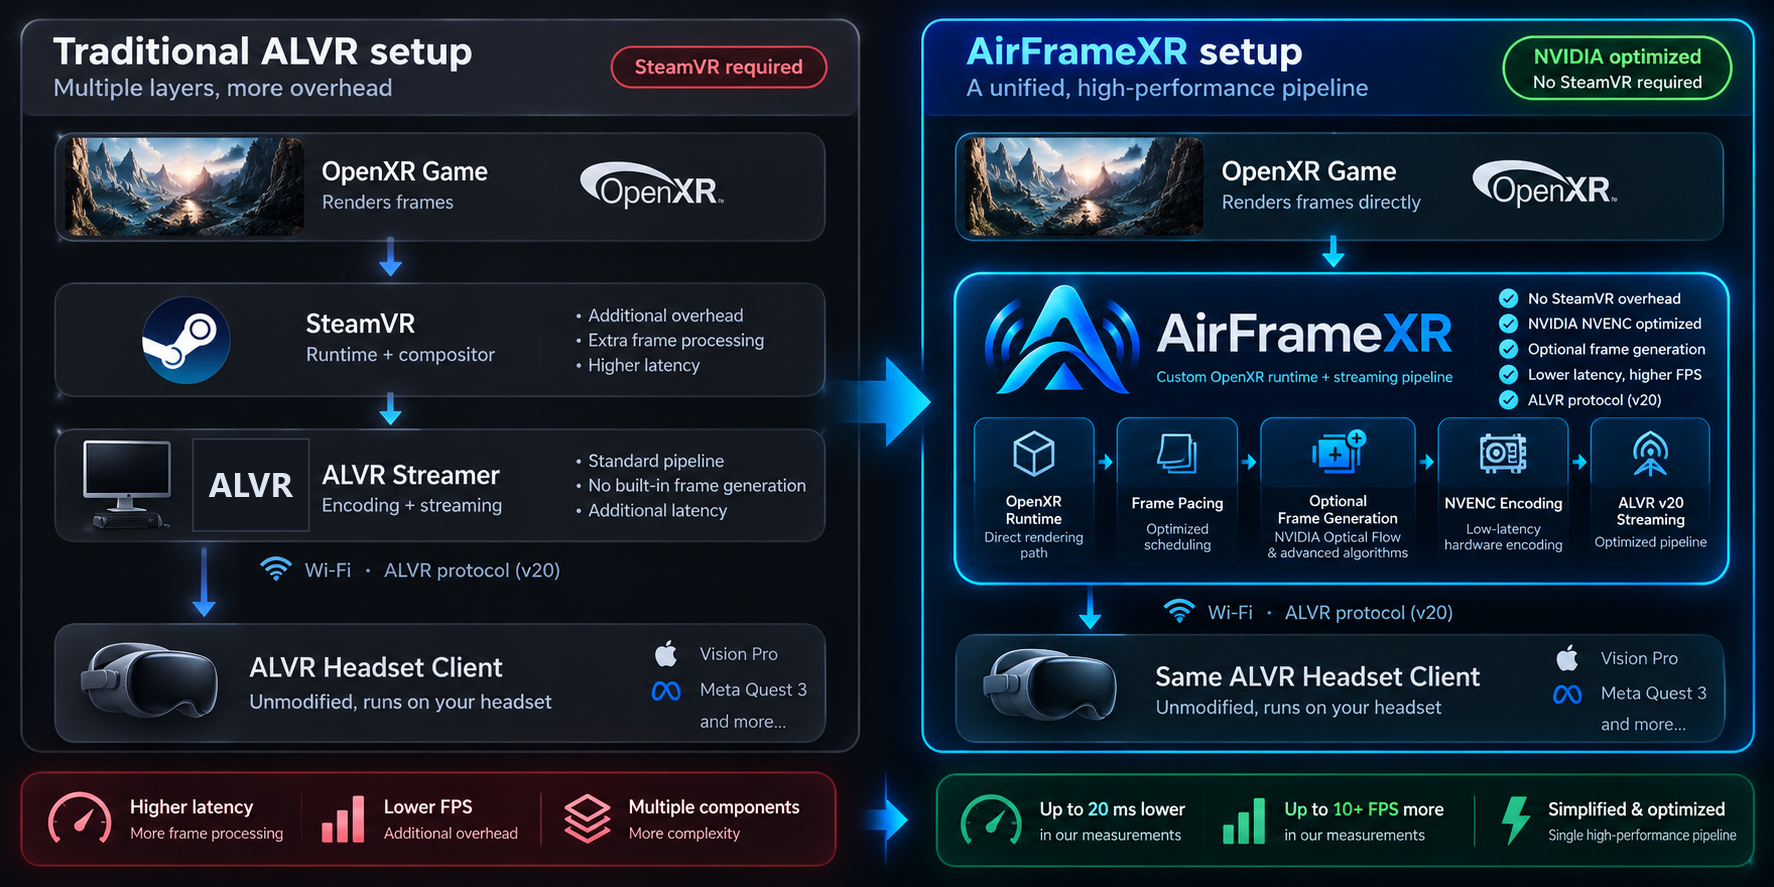
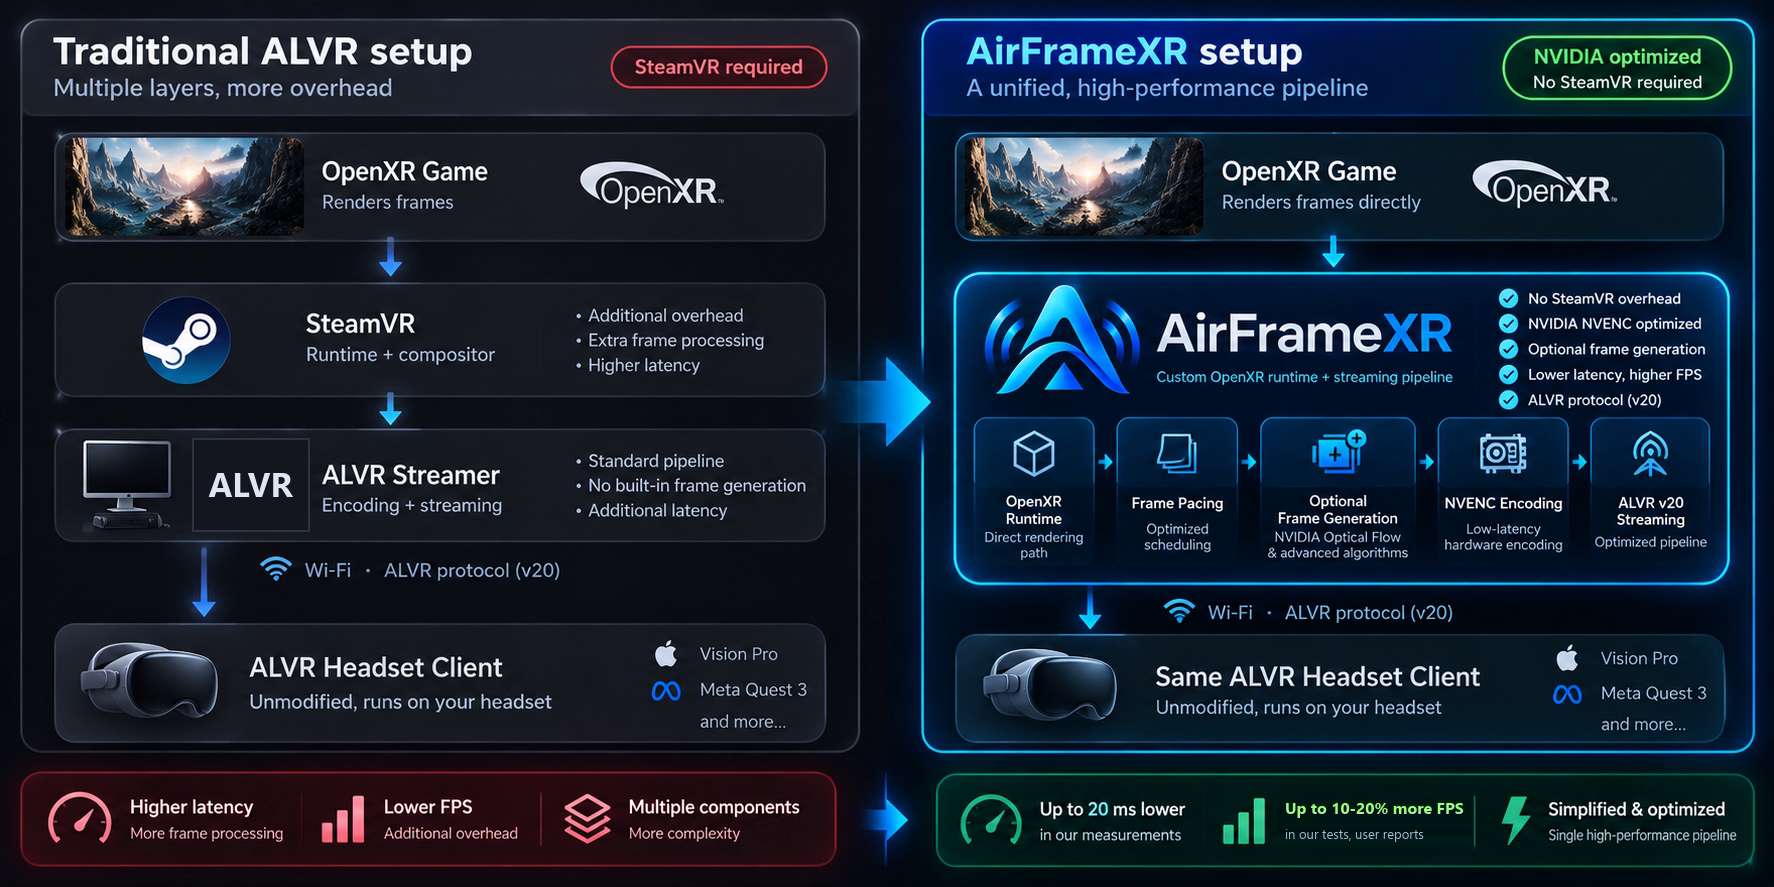
README and infographic: FPS gain stated as up to 10-20 % (maintainer measurements and user reports), parity caveat

diff --git a/README.md b/README.md
@@ -35,7 +35,7 @@ AirFrameXR replaces the **SteamVR + traditional ALVR PC streamer** with a **lean
 
 ### Performance: measurements, not promises
 
-**In developer tests of the new pipeline, improvements of up to 10+ FPS and around 20 ms lower latency were observed** compared with the earlier SteamVR + ALVR path. These are observations from tested configurations, **not guaranteed gains** across games, headsets, or networks. Frame generation should be evaluated separately: it improves delivered/displayed cadence in some GPU-bound cases, but has its own latency trade-off. See the performance findings and testing harness below for technical context.
+**In the maintainer's tests of the new pipeline, gains of up to 10-20 % more FPS and up to about 20 ms lower latency were observed** in some games compared with the earlier SteamVR + ALVR path, and users report similar numbers (for example Enshrouded: about 45 fps here against 35-40 with SteamVR, on one user's own reading). These are observations from tested configurations, **not guaranteed gains**: they vary with the game, headset and network, and in some setups the two paths are at parity. Frame generation should be evaluated separately: it improves delivered/displayed cadence in some GPU-bound cases, but has its own latency trade-off. See the performance findings and testing harness below for technical context.
 
 > **Scope:** Windows + NVIDIA GPU + compatible OpenXR games. Keep using the ALVR app on your headset. For SteamVR/OpenVR-only games or maximum compatibility, use SteamVR + stock ALVR instead.
 

diff --git a/docs/ai-contributions/2026-10-26-readme-messaging.md b/docs/ai-contributions/2026-10-26-readme-messaging.md
@@ -8,7 +8,7 @@
 ## What the AI contributed
 
 - Drafted a replacement README opening explaining that AirFrameXR replaces the **PC-side SteamVR + ALVR server path**, while the ALVR v20 headset client remains unchanged.
-- Incorporated the developer-reported improvements of **up to 10+ FPS** and **about 20 ms less latency** as observational, non-guaranteed measurements; described frame-generation latency trade-offs separately.
+- Incorporated the developer-reported improvements of **up to 10-20 % more FPS** (changed from "10+ FPS" at the maintainer's request, backed by their own measurements and user reports) and **up to about 20 ms less latency** as observational, non-guaranteed measurements; described frame-generation latency trade-offs separately.
 - Prepared the selected Before/After graphic for `docs/images/airframexr-pipeline-comparison.png` (reused from the project's earlier design discussion rather than re-generated for this update).
 - Drafted the design philosophy and AI-assisted contribution requirements for the README, `CONTRIBUTING.md`, and `docs/DEVELOPMENT_PHILOSOPHY.md`.
 - Created a standard-library-only local apply script and a reusable summary template.
